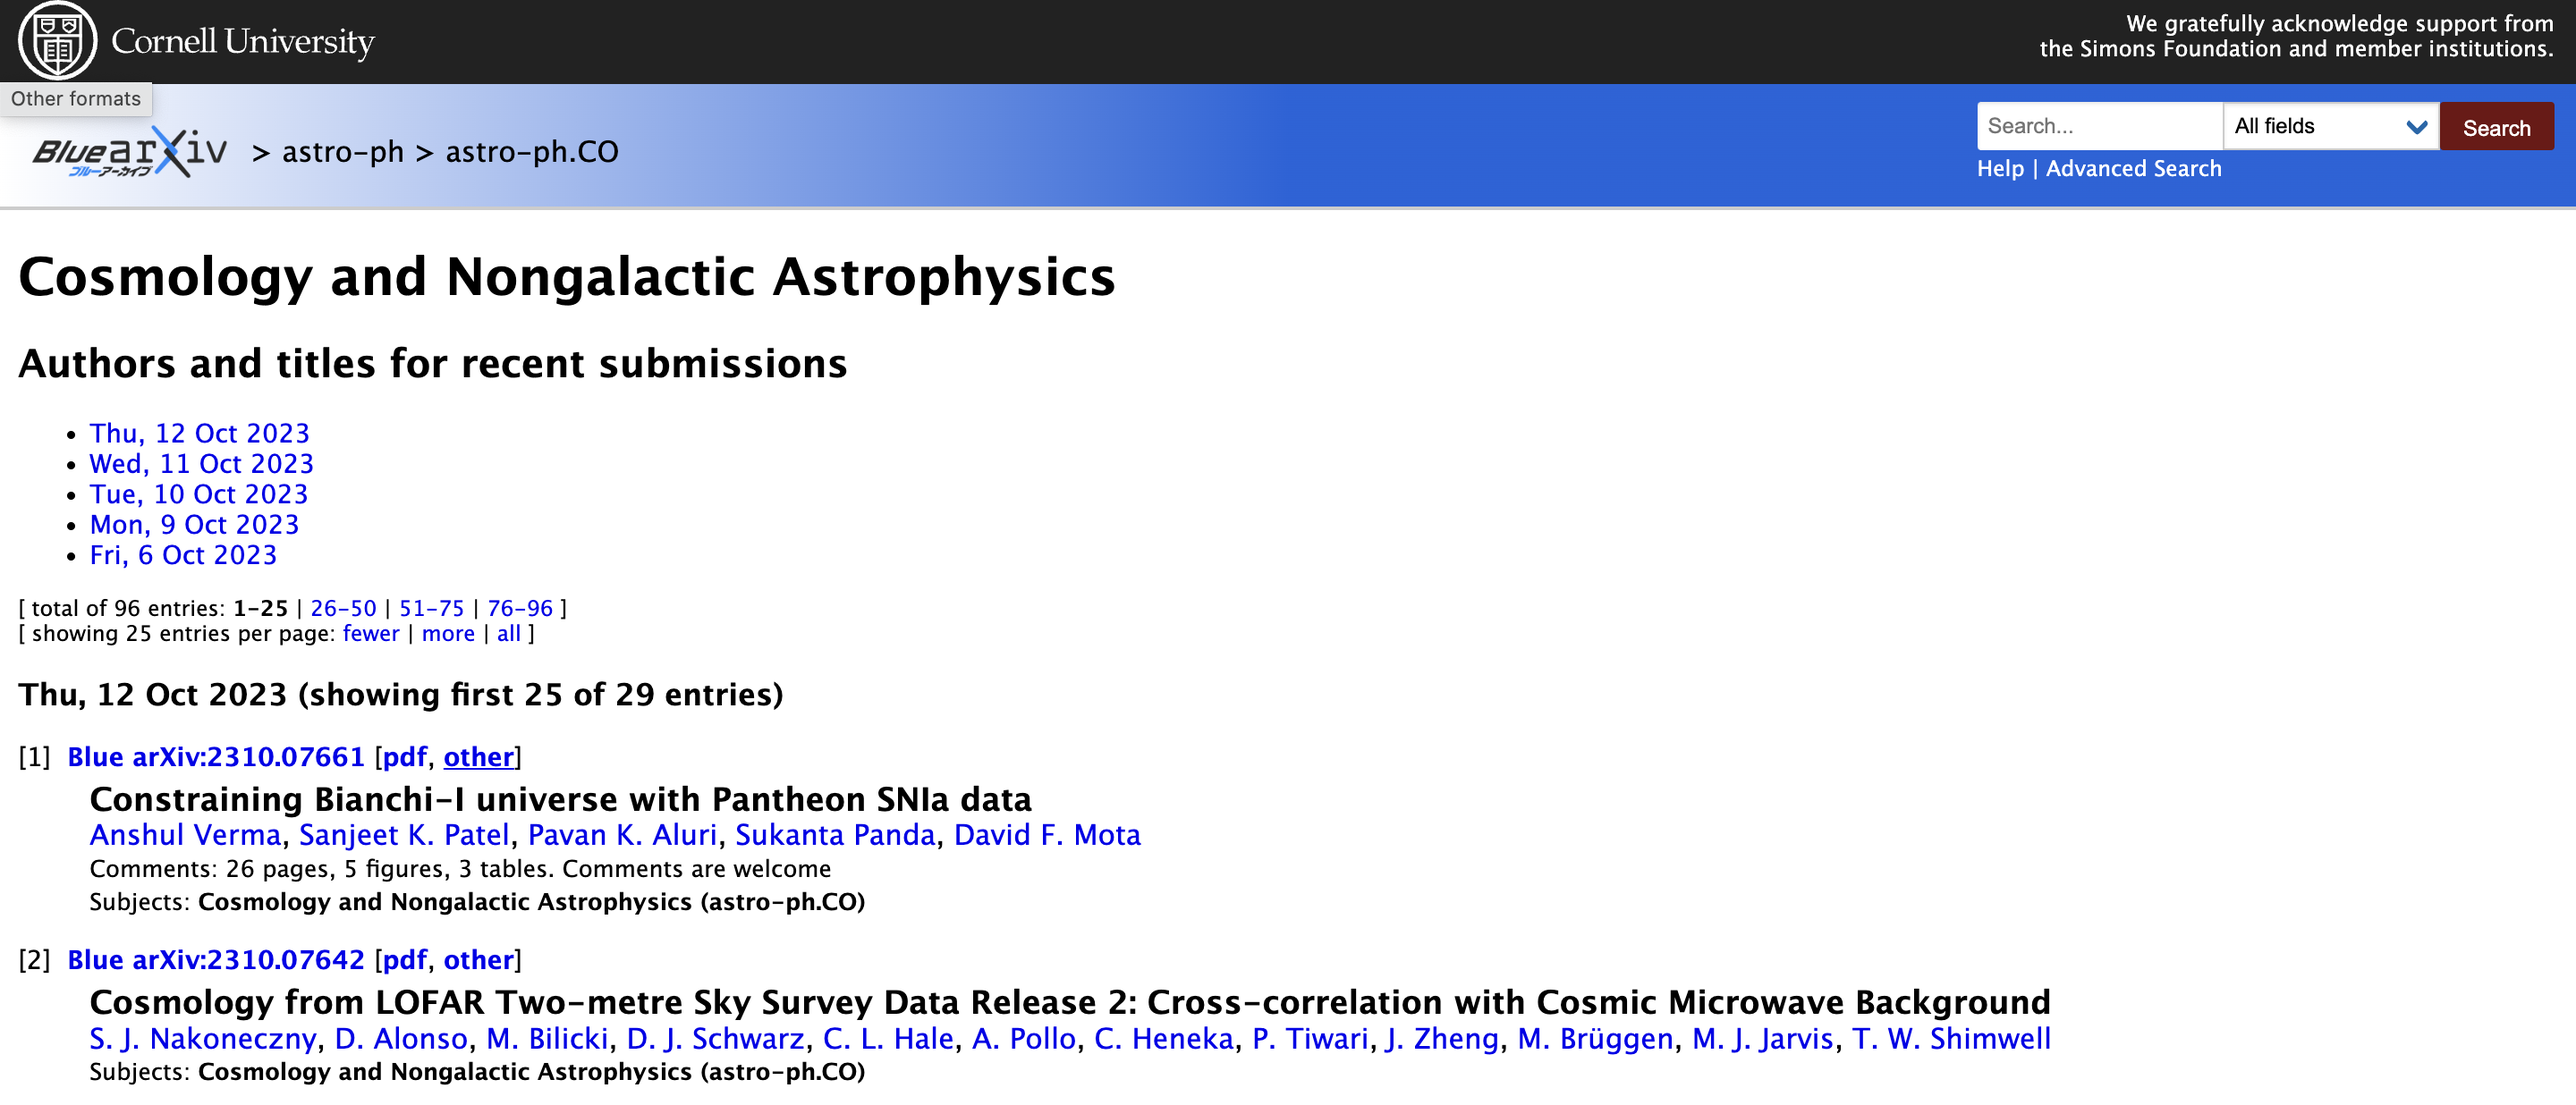
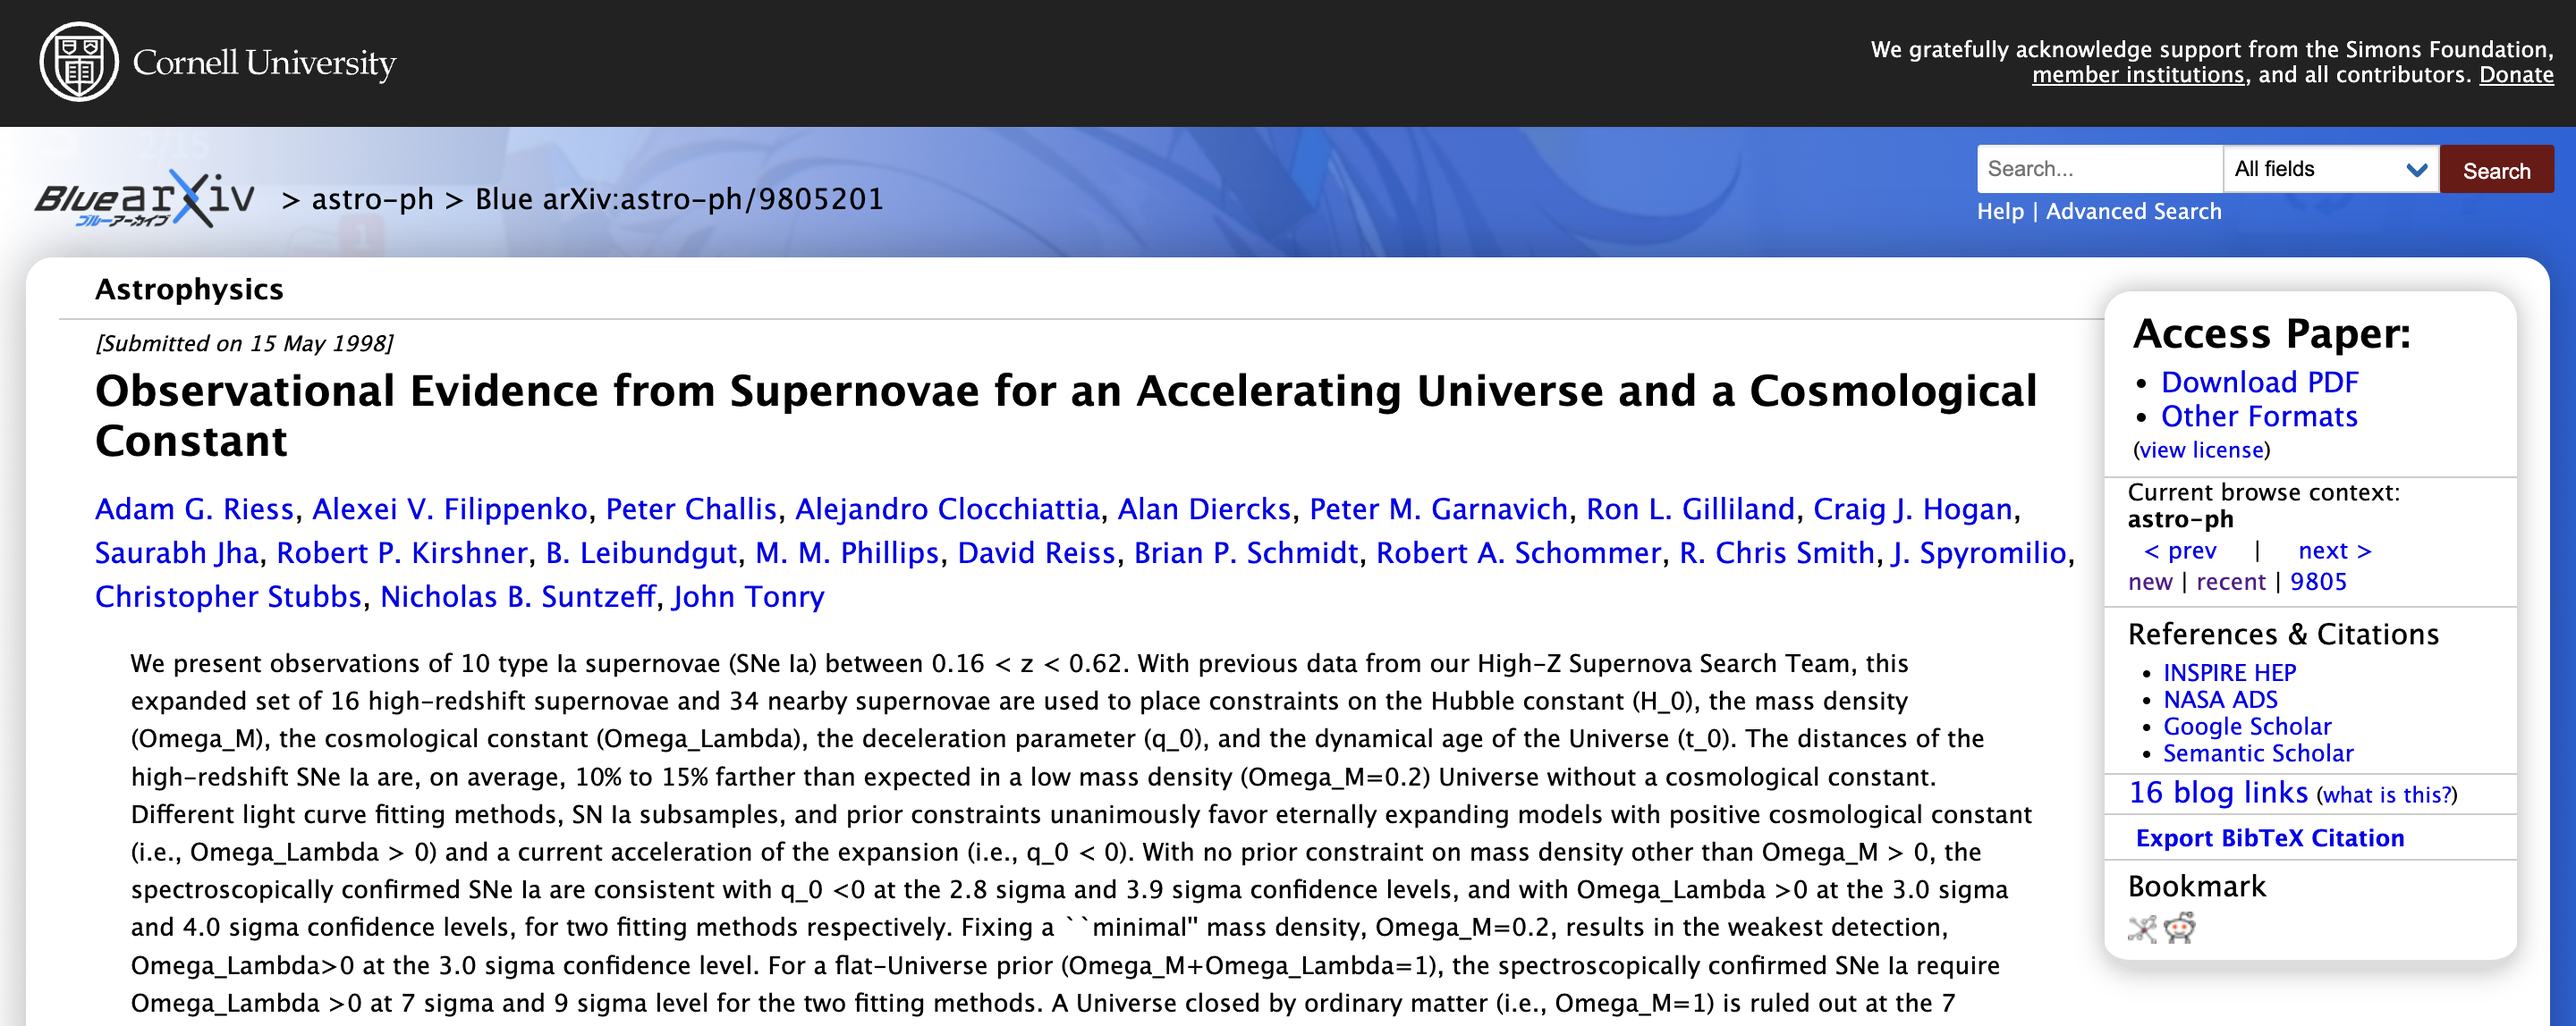
v1.2

Changed region(s): [[0.0, 0.0, 1.0, 1.0]]

diff --git a/arxiv-blue.user.js b/arxiv-blue.user.js
@@ -1,7 +1,7 @@
 // ==UserScript==
 // @name         Blue arXiv Theme
 // @namespace    https://github.com/snowmeow2/Blue-arXiv-Theme
-// @version      1.1
+// @version      1.2
 // @description  Customize the appearance of arXiv website
 // @author       snowmeow2
 // @match        https://arxiv.org/*
@@ -13,14 +13,22 @@
     // Use custom css
     const style = document.createElement('style');
     style.innerHTML = `
+    #content, .content {
+        margin: 0em 1em 0em 1em;
+        border-radius: 15px;
+        padding: 1em 2em 1em 2em;
+        filter: drop-shadow(0px 0px 15px rgba(0, 0, 0, 0.3));
+        background-color: #fff;
+    }
     #header {
-        background: linear-gradient(90deg, rgb(255, 255, 255), rgb(20, 100, 220), rgb(20, 100, 220));
+        background: transparent;
+        border-bottom: 0px;
     }
     .mobile-header {
-        background: linear-gradient(90deg, rgb(255, 255, 255), rgb(20, 100, 220), rgb(20, 100, 220));
+        background: transparent;
     }
     .identity {
-        background: linear-gradient(90deg, rgb(255, 255, 255), rgb(20, 100, 220), rgb(20, 100, 220));
+        background: transparent;
     }
     .header-breadcrumbs {
         color: black !important;
@@ -32,17 +40,55 @@
         border-left: 0px !important;
         border-right: 0px !important;
     }
+    #abs-outer .subheader {
+        background: transparent;
+    }
+    #abs-outer .extra-services {
+        margin: 1em 0em 0em 0em;
+    }
+    .extra-services {
+        box-shadow: 0px 0px 15px rgba(0, 0, 0, 0.3);
+        border-radius: 15px;
+    }
+    .full-text, .browse, .extra-ref-cite, .extra-general {
+        border-left: 0px;
+        border-bottom: 1px solid #ccc;
+    }
+    .bookmarks {
+        border-left: 0px;
+        border-bottom: 0px;
+    }
+    footer {
+        background: transparent;
+        margin-top: 2.5rem;
+    }
+    footer > .columns {
+        background: rgba(255, 255, 255, 0.9);
+        box-shadow: 0px 0px 15px rgba(0, 0, 0, 0.3);
+        border-radius: 15px;
+    }
+    footer ul li {
+        justify-content: center;
+    }
     `;
     document.head.appendChild(style);
+
+    const content_element = document.getElementById('content');
+    const content_class = document.getElementsByClassName('content');
+    if (content_element || content_class) {
+        let body = document.body;
+        body.style.background = 'linear-gradient(90deg, rgba(255, 255, 255, 1), rgba(20, 100, 220, 0.75), rgba(20, 100, 220, 1)), url("https://p2.bahamut.com.tw/B/2KU/50/1940acba5a56b975233e7e53521e9aq5.JPG")';
+        body.style.backgroundSize = 'cover';
+        body.style.backgroundRepeat = 'no-repeat';
+        body.style.backgroundPosition = 'center';
+        body.style.backgroundAttachment = 'fixed';
+        body.style.height = 'auto';
+    }
 
     // Replace the logo image
     const logoImg = document.querySelector('img[alt="arxiv logo"]');
     if (logoImg) {
         logoImg.src = 'https://i.imgur.com/ZkreQPV.png';
-        // check the url: If it is the homepage, don't resize the logo
-        if (!(window.location.href === 'https://arxiv.org/')) {
-            logoImg.style.width = '125px';
-        }
         logoImg.style.margin = '0px';
     }
     const logoImg2 = document.querySelector('img[alt="arXiv logo"]');
@@ -63,4 +109,11 @@
         }
     }
     replaceTextInNode(document.body);
+
+    // replace the favicon
+    const link = document.querySelectorAll("link[rel*='icon']");
+    link.forEach(el => {
+        el.href = 'https://play-lh.googleusercontent.com/k-BmewE1HZ4hrF9E9ABVvANeu1dBI5Bya0ttg8KiFGam_NpbmRqmFL4zz_RjgHbojA=s128-rw';
+    });
+
 })();
